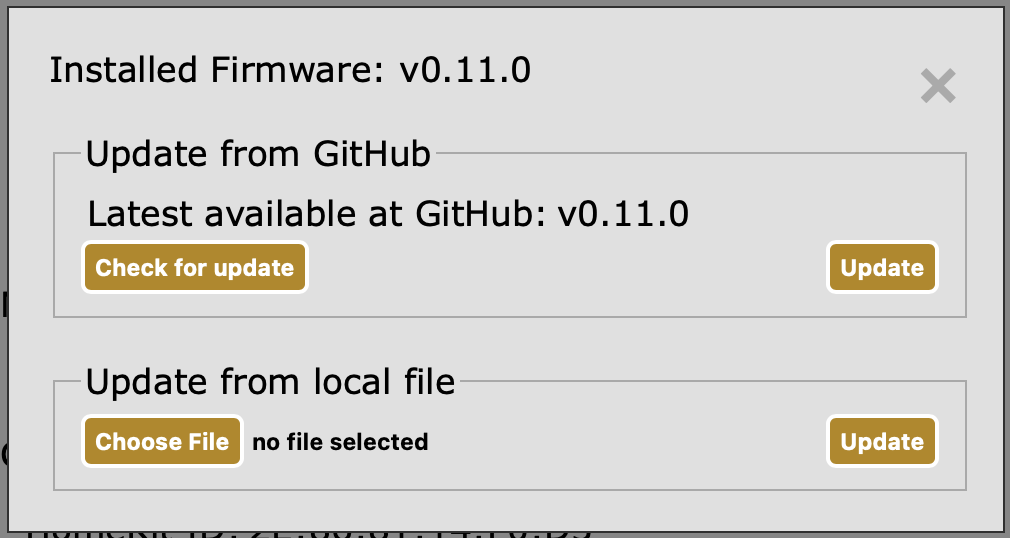
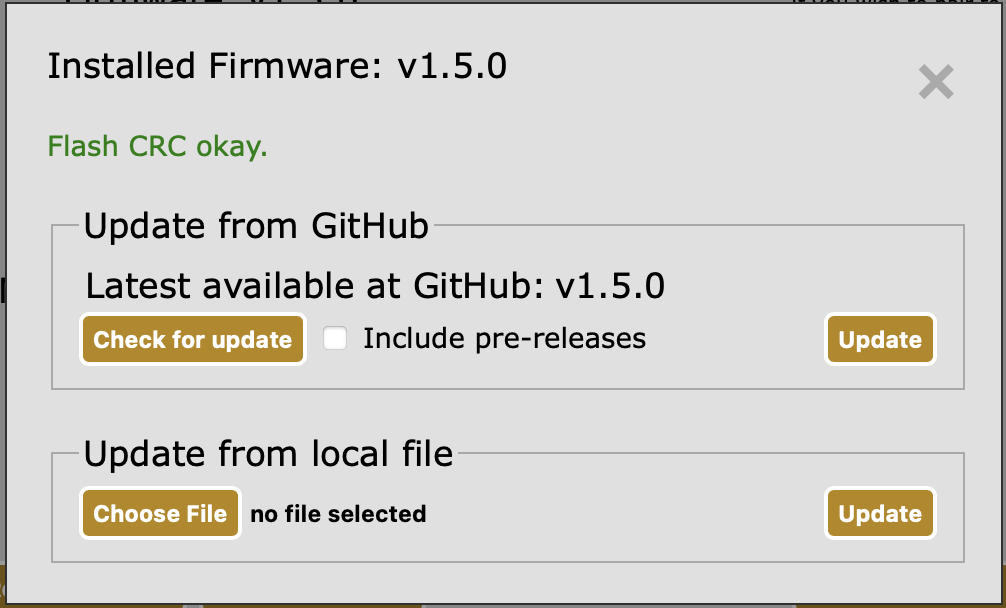
Update screen captures and README.md

Changed region(s): [[0.0, 0.0, 1.0, 1.0], [0.8936, 0.0892, 0.9553, 0.1784]]

diff --git a/README.md b/README.md
@@ -8,18 +8,6 @@ Homebridge, MQTT, etc, and connects to your garage door opener with as few as th
 This firmware supports Security+ and Security+ 2.0 enabled garage door openers and RATGDO v2.5-series
 ESP8266-based hardware.
 
-> [!IMPORTANT]
-> As of release v1.0.0, we believe this code is stable enough to call this a release build. You may
-> still encounter issues.  Please review the [Issues](https://github.com/ratgdo/homekit-ratgdo/issues)
-> and open a new one if necessary.
->
-> See the section below on where to get help.
-
-> [!WARNING]
-> Delayed close feature is disabled by default. You can enable a delay of up-to 60 seconds on the
-> settings page. During the delay period the garage door lights will flash and you may hear the
-> relay clicking, but there is no audible beep.
-
 > [!NOTE]
 > Many thanks to the original author @thenewwazoo.
 > [Why I'm leaving](https://thenewwazoo.github.io/bye-bye-ratgdo.html#whats-next).
@@ -51,7 +39,7 @@ That's it!
 
 ## Using ratgdo Webpage
 
-Before pairing to HomeKit / Apple Home you should open up the ratgdo webpage and configure basic settings.  Simply enter the local IP address of the ratgdo device to access the page. While this is optional, it is a good idea to set a more appropriate device name and check that your door protocol is correct.
+Before pairing to HomeKit / Apple Home you should open up the ratgdo webpage and configure basic settings.  Simply enter the local IP address of the ratgdo device to access the settings page to set a more appropriate device name and check that your door protocol is correct.
 
 [![webpage](docs/webpage/webpage.png)](#webpage)
 
@@ -59,7 +47,10 @@ The webpage comprises three sections, HomeKit and ratgdo device status, garage d
 
 ### HomeKit and ratgdo status
 
-If you ratgdo device is not yet paired to HomeKit then a QR code is displayed for you to scan and add the garage door to HomeKit. If the device is already paired then this is replaced with a statement that you must first un-pair the device.  A Reset or Un-pair HomeKit button is provided for this.  Note: if you will repair to the same HomeKit home you must also delete the accessory from HomeKit as well as un-pairing at the ratgdo device.
+If you ratgdo device is not yet paired to HomeKit then a QR code is displayed for you to scan and add the garage door to HomeKit. If the device is already paired then this is replaced with a statement that you must first un-pair the device if you wish to use it with another HomeKit home.  A Reset or Un-pair HomeKit button is provided for this.
+
+> [!NOTE]
+> if you will re-pair to the same HomeKit home you must also delete the accessory from HomeKit as well as un-pairing at the ratgdo device.
 
 This section also displays the current firmware version, with a statement on whether an update is available, the uptime of the device in days/hours/minutes/seconds and WiFi connection status.
 
@@ -80,7 +71,7 @@ By default authentication is not required for any action on this web page.  Howe
 > [!NOTE]
 > The device uses _Digest Authentication_ supported in all web browsers, this is not cryptographically secure but is sufficient to protect against unauthorized or inadvertant access. Note that web browsers remember the username and password for a period of time so you will not be prompted to authenticate for every access.
 
-You can change the default password by clicking into the settings gear:
+You can change the default password by clicking into the settings page:
 
 [![settings](docs/webpage/settings.png)](#settings)
 
@@ -90,7 +81,7 @@ You can change the default password by clicking into the settings gear:
 
 The settings page allows you to input a new password (but username cannot be changed, it is always _admin_). Saving a new password will return you to the main webpage from which point you will have to authenticate with the new password to access the settings page or any of the action buttons (except for reboot).
 
-If you save any settings from this page the ratgdo device will reboot and after a 30-second countdown you will return to the main webpage.
+When you save settings from this page the ratgdo device will either return immediately to the main page or, if required, reboot return to the main page and after a 30-second countdown.
 
 ### Name
 
@@ -129,28 +120,53 @@ During early devlopment there were several reports that the ratgdo device would 
 Over-the-Air (OTA) updates are supported, either directly from GitHub or by selecting a firmware binary file on your computer. Follow the steps below to update:
 
 * Navigate to your ratgdo's ip address where you will see the devices webpage, Click `Firmware Update`
-* Update from Github
-  * To check for updates, click `Check for update`
-  * If update is available, Click `Update`
+  > When you open Firmware Update the ratgdo device performs a flash memory CRC check. If this fails a warning message is shown. Please see the Flash CRC Errors section below before proceeding.
+
 [![ota](docs/ota/ota.png)](#ota)
-* Update from local file
-  * Download the latest release, by download the `.bin` file on the [latest release](https://github.com/ratgdo/homekit-ratgdo/releases)
+* Update from Github
+  * To check for updates, click `Check for update`.
+    Select the _Include pre-releases_ box to include pre- or beta-release versions in the check. 
+  * If update is available, Click `Update`.
+* Update from local file.
+  * Download the latest release, by download the `.bin` file from the [latest release](https://github.com/ratgdo/homekit-ratgdo/releases) page.
 [![firmware](docs/ota/firmware.png)](#firmware)
   * Upload the firmware that was downloaded in step 1, by clicking `Choose File` under `Update from local file`.
-[![ota](docs/ota/ota.png)](#ota)
-  * Click `Update` to proceed with upgrading
-[![uploaded](docs/ota/uploaded.png)](#uploaded)
-  * Once the update is Successful, ratgdo will now Reboot
+  * Click `Update` to proceed with upgrading.
+  * Once the update is Successful, ratgdo will now Reboot.
   * After a firmware update, you _may_ have to go through the process of re-pairing your device to HomeKit.  If your device is showing up as unresponsive in HomeKit, please try un-pairing, reboot, and re-pairing.
 
 Automatic updates are not supported (and probably will never be), so set a reminder to check back again in the future.
 
+## Upgrade failures
+
+If the OTA firmware update fails the following message will be displayed and you are given the option to reboot or cancel. If you reboot, the device will reload the same firmware as previously installed.  If you cancel then the device remains open, but the HomeKit service will be shutdown.  This may be helpful for debuging, see Troubleshooting section below.
+
+[![updatefail](docs/ota/updatefail.png)](#updatefail)
+
 ## Flash CRC Errors
 
-When displaying the Firmware Update dialog, or requesting a reboot, the integrity of the RATGDO device is checked by running a CRC check on the flash memory. If an error is detected
-then it is highly likely that a reboot will fail and you will only be able to recover by flashing new firmware using a USB cable.
+When requesting a reboot or displaying the firmware update dialog, the integrity of the ratgdo device is checked by running a CRC check on the flash memory. A CRC error is a strong indicator of a problem in the ratgdo firmware and it is highly likely that the device will fail to reboot.
 
-MORE DOCUMENTATION TO BE ADDED
+[![rebootcrc](docs/webpage/rebootcrc.png)](#rebootcrc)
+[![updatecrc](docs/ota/updatecrc.png)](#updatecrc)
+
+If you encounter a flash CRC error then please [open an issue](https://github.com/ratgdo/homekit-ratgdo/issues) on GitHub so that developers can assist with debugging.  Recovering from a flash CRC error will require flashing new firmware using a USB cable, but it may be possible to capture valuable information using esptool to assist with debugging.
+
+### esptool
+
+[Espressif](https://www.espressif.com) publishes [esptool](https://docs.espressif.com/projects/esptool/en/latest/esp8266/index.html), a command line utility built with python.  Esptool requires that you connect a USB serial cable to the ratgdo device. If you are able to install and run this tool then the following commands may be useful...
+
+```
+sudo python3 -m esptool -b 115200 -p <serial_device> verify_flash --diff yes 0x0000 <firmware.bin>
+```
+The above command verifies that the flash memory on the ratgdo has an exact image of the contents of the provided firmware binary file. If a flash CRC error was reported then this command will fail and list out the memory locations that are corrupt. This information will be useful to the developers to assist with debugging. Please copy it into the GitHub issue.
+
+```
+sudo python3 -m esptool -b 115200 -p <serial_device> write_flash 0x0000 <firmware.bin>
+```
+The above command will upload a new firmware binary file to the ratgdo device which will recover from the flash CRC error. This is an alternative to using the [online browser-based flash tool](https://ratgdo.github.io/homekit-ratgdo/flash.html) described above.
+
+Replace _<serial_device>_ with the identifier of the USB serial port.  On Apple MacOS this will be something like _/dev/cu.usbserial-10_ and on Linux will be like _/dev/ttyUSB0_. You should not use a baud rate higher than 115200 as that may introduce serial communication errrors.
 
 ## Command Line Interface
 
@@ -249,18 +265,18 @@ select after adding it.
 
 ### Unable to Pair
 
-> I get a message [Unable to Add Accessory: The setup code is incorrect.](https://github.com/ratgdo/homekit-ratgdo/issues/97)
+I get a message [Unable to Add Accessory: The setup code is incorrect.](https://github.com/ratgdo/homekit-ratgdo/issues/97)
 
 > [!WARNING]
-We have had a number of users that have encountered this error that was a result of running HomeBrdige with the Bounjour-HAP mDNS backend. You can find
+We have had a number of users that have encountered this error that was a result of running HomeBridge with the Bounjour-HAP mDNS backend. You can find
 more details in the issue thread, but the short story is to consider changing that backend to Avahi or Ciao.
 
 ### How do I re-pair my ratgdo?
 
 Use the [online browser-based flash tool](https://ratgdo.github.io/homekit-ratgdo/flash.html), and follow the
-"Visit Device" link. If you see a big QR code, the ratgdo is *not* paired. Click the "Un-pair
-HomeKit" button, and then delete the garage door from within the HomeKit app (or vice versa, order
-does not matter). It is also recommended that you reboot the RATGDO after un-pairing.  You can then re-pair the
+"Visit Device" link. If you see a big QR code, the ratgdo is *not* paired. Click the _Reset HomeKit_ or _Un-pair
+HomeKit_ button, and then delete the garage door from within the HomeKit app (or vice versa, order
+does not matter). Reseting or Un-pairing HomeKit will cause the ratgdo device to reboot.  You can then re-pair the
 device by adding it again as normal.
 
 ### Where can I get help?
@@ -286,6 +302,8 @@ Great reliability improvements have been made in recent versions of the firmware
 The footer of the webpage displays useful information that can help project contributors assist with diagnosing a problem. The ESP8266 is a low-memory device so monitoring actual memory usage is first place to start. Whenever you connect to the webpage, the firmware reports memory utilization every second... current available free heap, the lowest value that free heap has reached since last reboot, and the minimum available stack reached since last reboot.
 
 In addition the last reboot date and time is reported (calculated by subtracting up-time from current time). If the last reboot was caused by a system crash then an additonal line will display the number of times it crashed with options to display the crash log, and to clear the crash log.
+
+The _lastDoorChange_ will show the date and time that the door was last opened or closed.  This is not saved across reboots, so it will show as unknown after a reboot.
 
 ### Display log
 
@@ -330,3 +348,5 @@ Special credit goes to the Chamberlain Group, without whose irredeemably stupid 
 this firmware would never have been necessary.
 
 [Garage icons](https://www.flaticon.com/free-icons/garage) created by Creative Squad - Flaticon
+
+Copyright (c) 2023-24 HomeKit-RATGDO [contributors](https://github.com/ratgdo/homekit-ratgdo/graphs/contributors).
